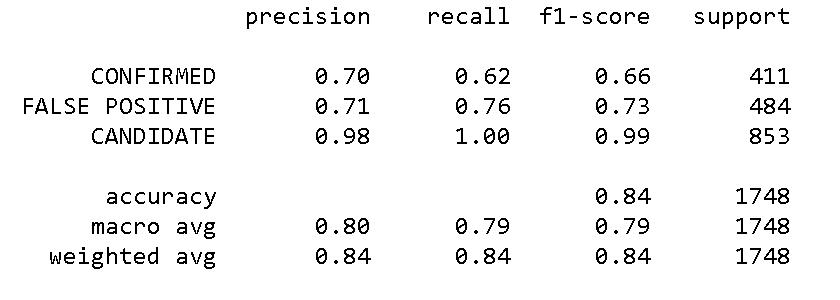
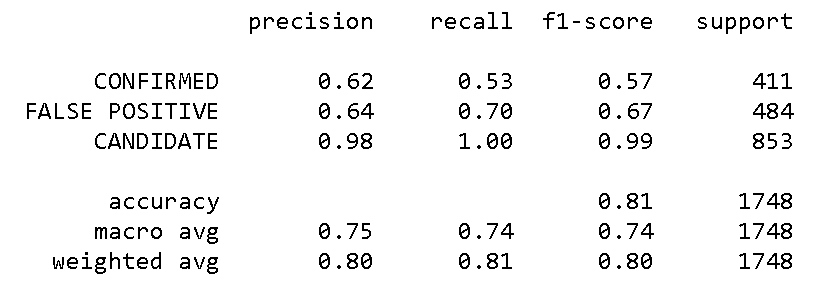
completed readme, final submission

diff --git a/README.md b/README.md
@@ -21,8 +21,10 @@ All models were created using SKlearn. From the dataset, `koi_disposition` was t
 * Model 2 - K Nearest Neighbors (KNN)
 * Model 3 - Support Vector Machine (SVM)
 
-#### Features Selected
-To help to determine which features to keep in the dataset, a correlation matrix was created (located in the [Random Forest notebook](https://github.com/klharp/machine-learning-challenge)). 
+These three models can be found in the  [saved_files folder](https://github.com/klharp/machine-learning-challenge/tree/main/saved_files) on GitHub.
+
+### Features Selected
+To help to determine which features to keep in the dataset, a correlation matrix was created.  The [features notebook](https://github.com/klharp/machine-learning-challenge) contains the matrix and the list for the final features. The correlation matrix of all the features displays:
 
 * A large positive value (near to 1.0) indicates a strong positive correlation.
 
@@ -31,9 +33,9 @@ To help to determine which features to keep in the dataset, a correlation matrix
 * A value near to 0 (both positive or negative) indicates the absence of any correlation between the two variables.
 ![Correlation Image](Images/corr.png)
 
-Since the correlation matrix has many values near 0, it was decided to eliminate the err data with the large negative numbers in the matrix.
+The correlation matrix has many values near 0. It was determined to eliminate the err data with the large negative numbers. All of the features eliminated were err features. This modified features list was used in all models.
 
-In using the reduced features in each model, the data was scaled (using the MinMaxScaler) to train-test samples. Each model was then tuned using the GridSearchCV methodology.
+Using the reduced features, the data in each model was scaled (using the MinMaxScaler) to train-test samples. Each model was then tuned using the GridSearchCV methodology.
 
 - - -
 
@@ -48,13 +50,13 @@ Using a Random Forest classifier with the n-estimators set to 200, The testing a
 ``Training Data Score: 1.0``<br>
 ``Testing Data Score: 0.9056064073226545``
 
- In tuning the model,  with the parametric grid set to 100, 200 and 300, The accuracy is just over 89%.
+ In tuning the model with the parametric grid set to 100, 200 and 300, the accuracy is just over 89%.
 
 ``{'n_estimators': 100}``<br>
 ``0.8937595965623386``
 
 ## KNN Model
-Using a K Nearest Neighbors classifier, when increasing the neighbors to something over 20, the model does not change much.
+Using a K Nearest Neighbors classifier, when increasing the neighbors to something over 15, the model does not change much.
 
 ``k: 29,  Training Data Score: 0.832``<br>
 ``k: 29,  Testing Data Score: 0.810``
@@ -65,19 +67,19 @@ Setting the k to 15 where the lines start to flatten out, The accuracy is just o
 
 ``k=15 Test Acc: 0.821``
 
- In tuning the model and observing k15 at 82%, set up the parametric grid to go from 3 to 21. The accuracy still hovers around 82%
+ In tuning the model and observing k15 at 82%, set up the parametric grid to go from 3 to 21. The accuracy is just over 81%
 
  ``{'n_neighbors': 21}``<br>
 ``0.8138441554661291``
 
 ## SVM Model
-With the Support Vector Machine classifier, the accuracy was 84%, with the Candidate having the highest precision.
+With the Support Vector Machine classifier, the accuracy was just over 80%, with the Candidate having the highest precision. The precision for ``CONFIRMED`` and ``FALSE POSITIVE`` is considerably lower then for the CANDIDATE.
 
 ``Test Acc: 0.806``
 
 ![SVM model](Images/svm_table.png)
 
- In tuning the model, observing 84% accuracy, set up the parametric grid to go from 1 to 40. The accuracy increases to 88%.
+ In tuning the model, observing 80% accuracy, set up the parametric grid to 1, 5, 10, 20, 40. The accuracy increased to 83%.
 
  ``{'C': 40, 'gamma': 0.0001}``<br>
 ``0.8321507579010181``
@@ -86,6 +88,10 @@ With the Support Vector Machine classifier, the accuracy was 84%, with the Candi
 - - -
 
 ## Summary
-Removing the err features generally dropped the accuracy 3-5 percentage points.Further study should be done regarding these err features to determine their importance. 
+Removing the err features generally dropped the accuracy 3-5 percentage points.Further study should be done regarding these err features to determine their importance and whether or not they should be left in the dataset. 
 
-The Random Forest classifier presented the highest accuracy percentage (89-90%). The KNN classifier and thesSupport Vector Machine classifer had  lower accuracy percentage (81-83%). The The accuracy levels of 89-90% is fairly good at making the KOI Disposition prediction. 
+Another issue for further study would be the necessity for removing the ``CANDIDATE`` from the training set. According to the KNN model, it's precision is much higher than the others. This delta warrants further study in pre-processing the raw dataset.
+
+The Random Forest classifier presented the highest accuracy percentage (89-90%). The KNN classifier and the Support Vector Machine classifer had  lower accuracy percentage (81-83%). The The accuracy levels of 89-90% is fairly good at making the KOI Disposition prediction. 
+
+The saved Random Forest model can be found [here](https://github.com/klharp/machine-learning-challenge/tree/main/saved_files), along with the files for the other models.
